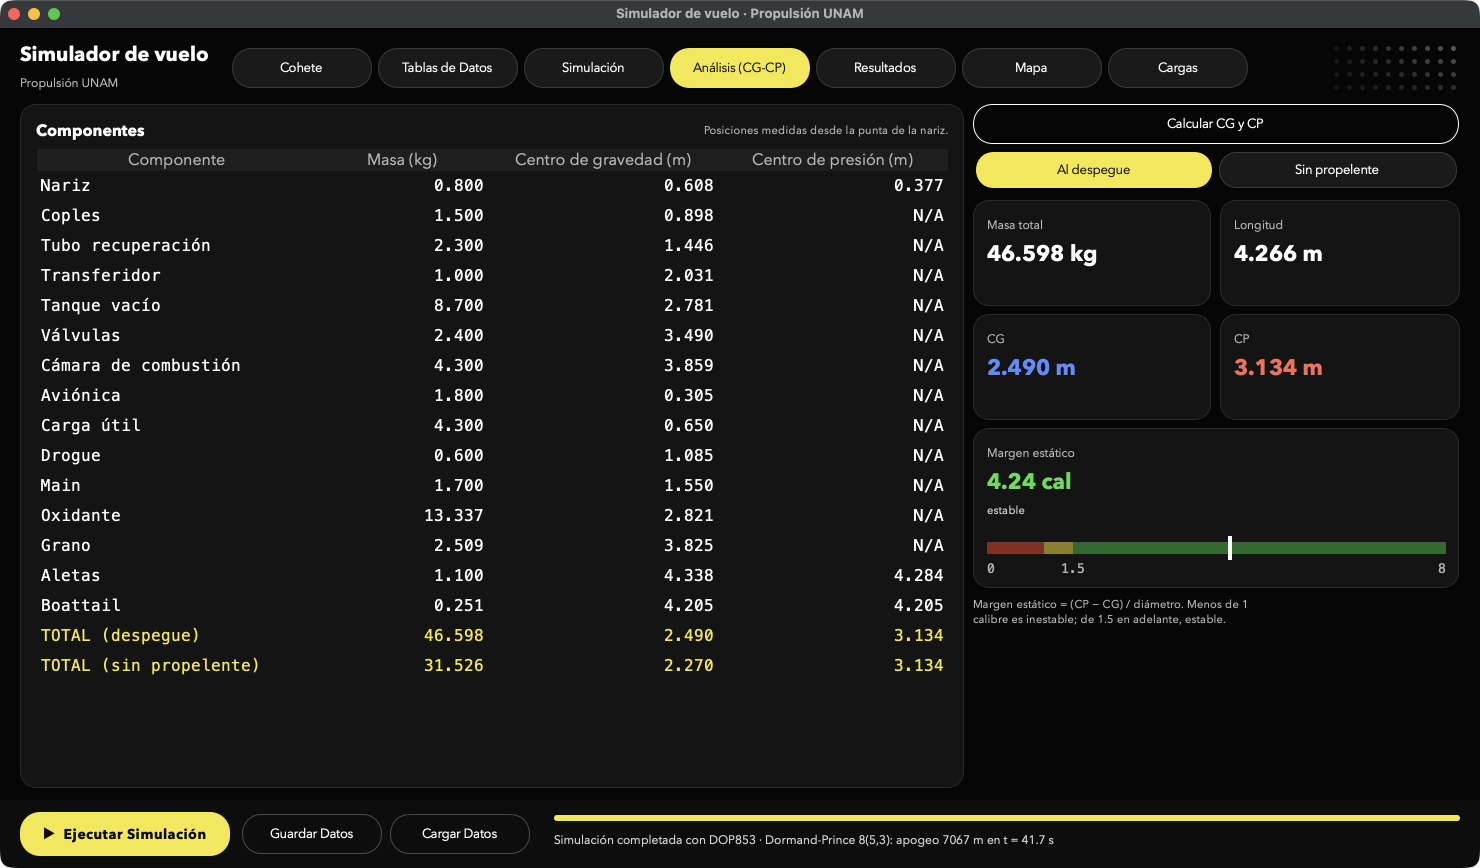
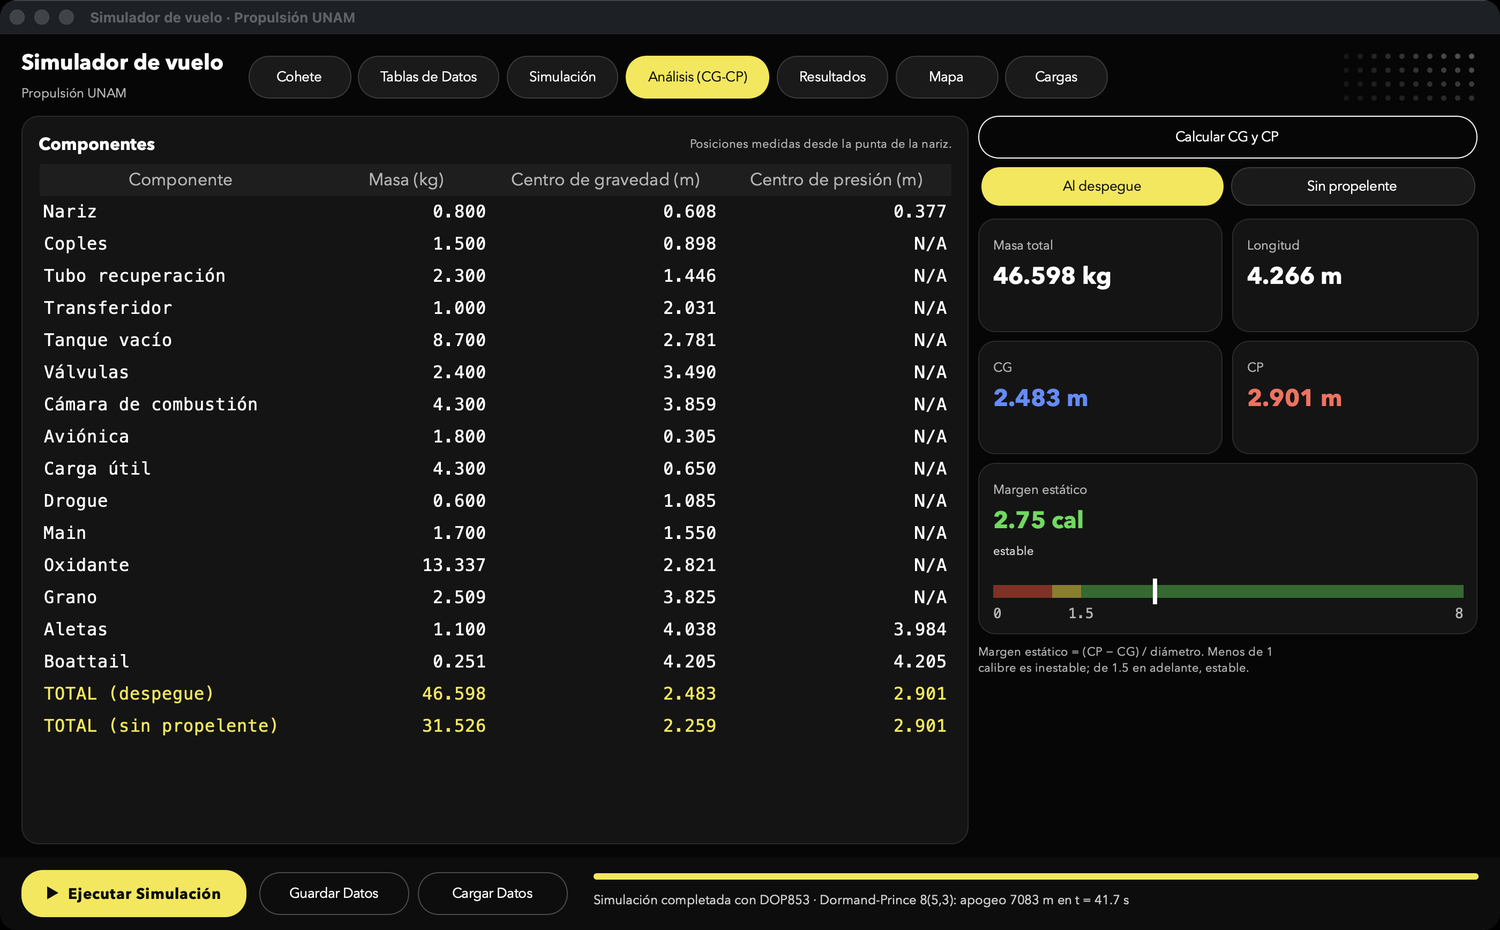
Tune the Propulsion GUI tab selector and labels, refresh screenshots

diff --git a/Simulador/GUI/propulsion/widgets.py b/Simulador/GUI/propulsion/widgets.py
@@ -79,13 +79,14 @@ def deslizador(master, variable, desde, hasta, pasos, formato="{:.0f}"):
 class Selector(ctk.CTkFrame):
     """Grupo de botones del que solo uno está elegido (pestañas, modos, recuperación)."""
 
-    def __init__(self, master, opciones, al_elegir, vertical=False, alto=40):
+    def __init__(self, master, opciones, al_elegir, vertical=False, alto=40, ancho=140):
+        """`ancho` es el ancho mínimo de cada botón; si el texto no cabe, el botón crece."""
         super().__init__(master, fg_color="transparent")
         self.al_elegir = al_elegir
         self.valor = None
         self.botones = {}
         for i, (valor, texto) in enumerate(opciones):
-            b = ctk.CTkButton(self, text=texto, corner_radius=alto // 2, height=alto, border_width=1,
+            b = ctk.CTkButton(self, text=texto, corner_radius=alto // 2, height=alto, width=ancho, border_width=1,
                               font=fuente(13), command=lambda v=valor: self.elegir(v))
             if vertical:
                 b.grid(row=i, column=0, sticky="ew", pady=3)

diff --git a/Simulador/GUI/propulsion/pestana_cohete.py b/Simulador/GUI/propulsion/pestana_cohete.py
@@ -132,7 +132,7 @@ class PestanaCohete(ctk.CTkFrame):
             return
         e = estabilidad
         estado, color = estado_margen(e["margen"])
-        self.tarjetas["masa"].fijar(f"{e['masa']:.1f} kg", f"{e['masa_seca']:.1f} kg sin propelente")
-        self.tarjetas["cg"].fijar(f"{e['cg']:.2f} m", f"{e['cg_seco']:.2f} m sin propelente", Tema.AZUL)
+        self.tarjetas["masa"].fijar(f"{e['masa']:.1f} kg", f"{e['masa_seca']:.1f} kg en seco")
+        self.tarjetas["cg"].fijar(f"{e['cg']:.2f} m", f"{e['cg_seco']:.2f} m en seco", Tema.AZUL)
         self.tarjetas["cp"].fijar(f"{e['cp']:.2f} m", f"longitud {e['longitud']:.3f} m", Tema.ROJO)
         self.tarjetas["margen"].fijar(f"{e['margen']:.2f} cal", estado, color)

diff --git a/Simulador/GUI/propulsion/app.py b/Simulador/GUI/propulsion/app.py
@@ -73,7 +73,7 @@ class App(ctk.CTk):
         nombre.grid(row=0, column=0, sticky="w", padx=(0, 20))
         ctk.CTkLabel(nombre, text="Simulador de vuelo", font=fuente(20, negrita=True), text_color=Tema.TEXTO, anchor="w").pack(anchor="w")
         ctk.CTkLabel(nombre, text="Propulsión UNAM", font=fuente(12), text_color=Tema.TENUE, anchor="w").pack(anchor="w")
-        self.navegacion = Selector(cabeza, [(n, n) for n, _ in self.PESTANAS], self.mostrar_pestana)
+        self.navegacion = Selector(cabeza, [(n, n) for n, _ in self.PESTANAS], self.mostrar_pestana, ancho=96)
         self.navegacion.grid(row=0, column=1, sticky="w")
         self._dibujar_trama(cabeza).grid(row=0, column=2, sticky="e")
 
